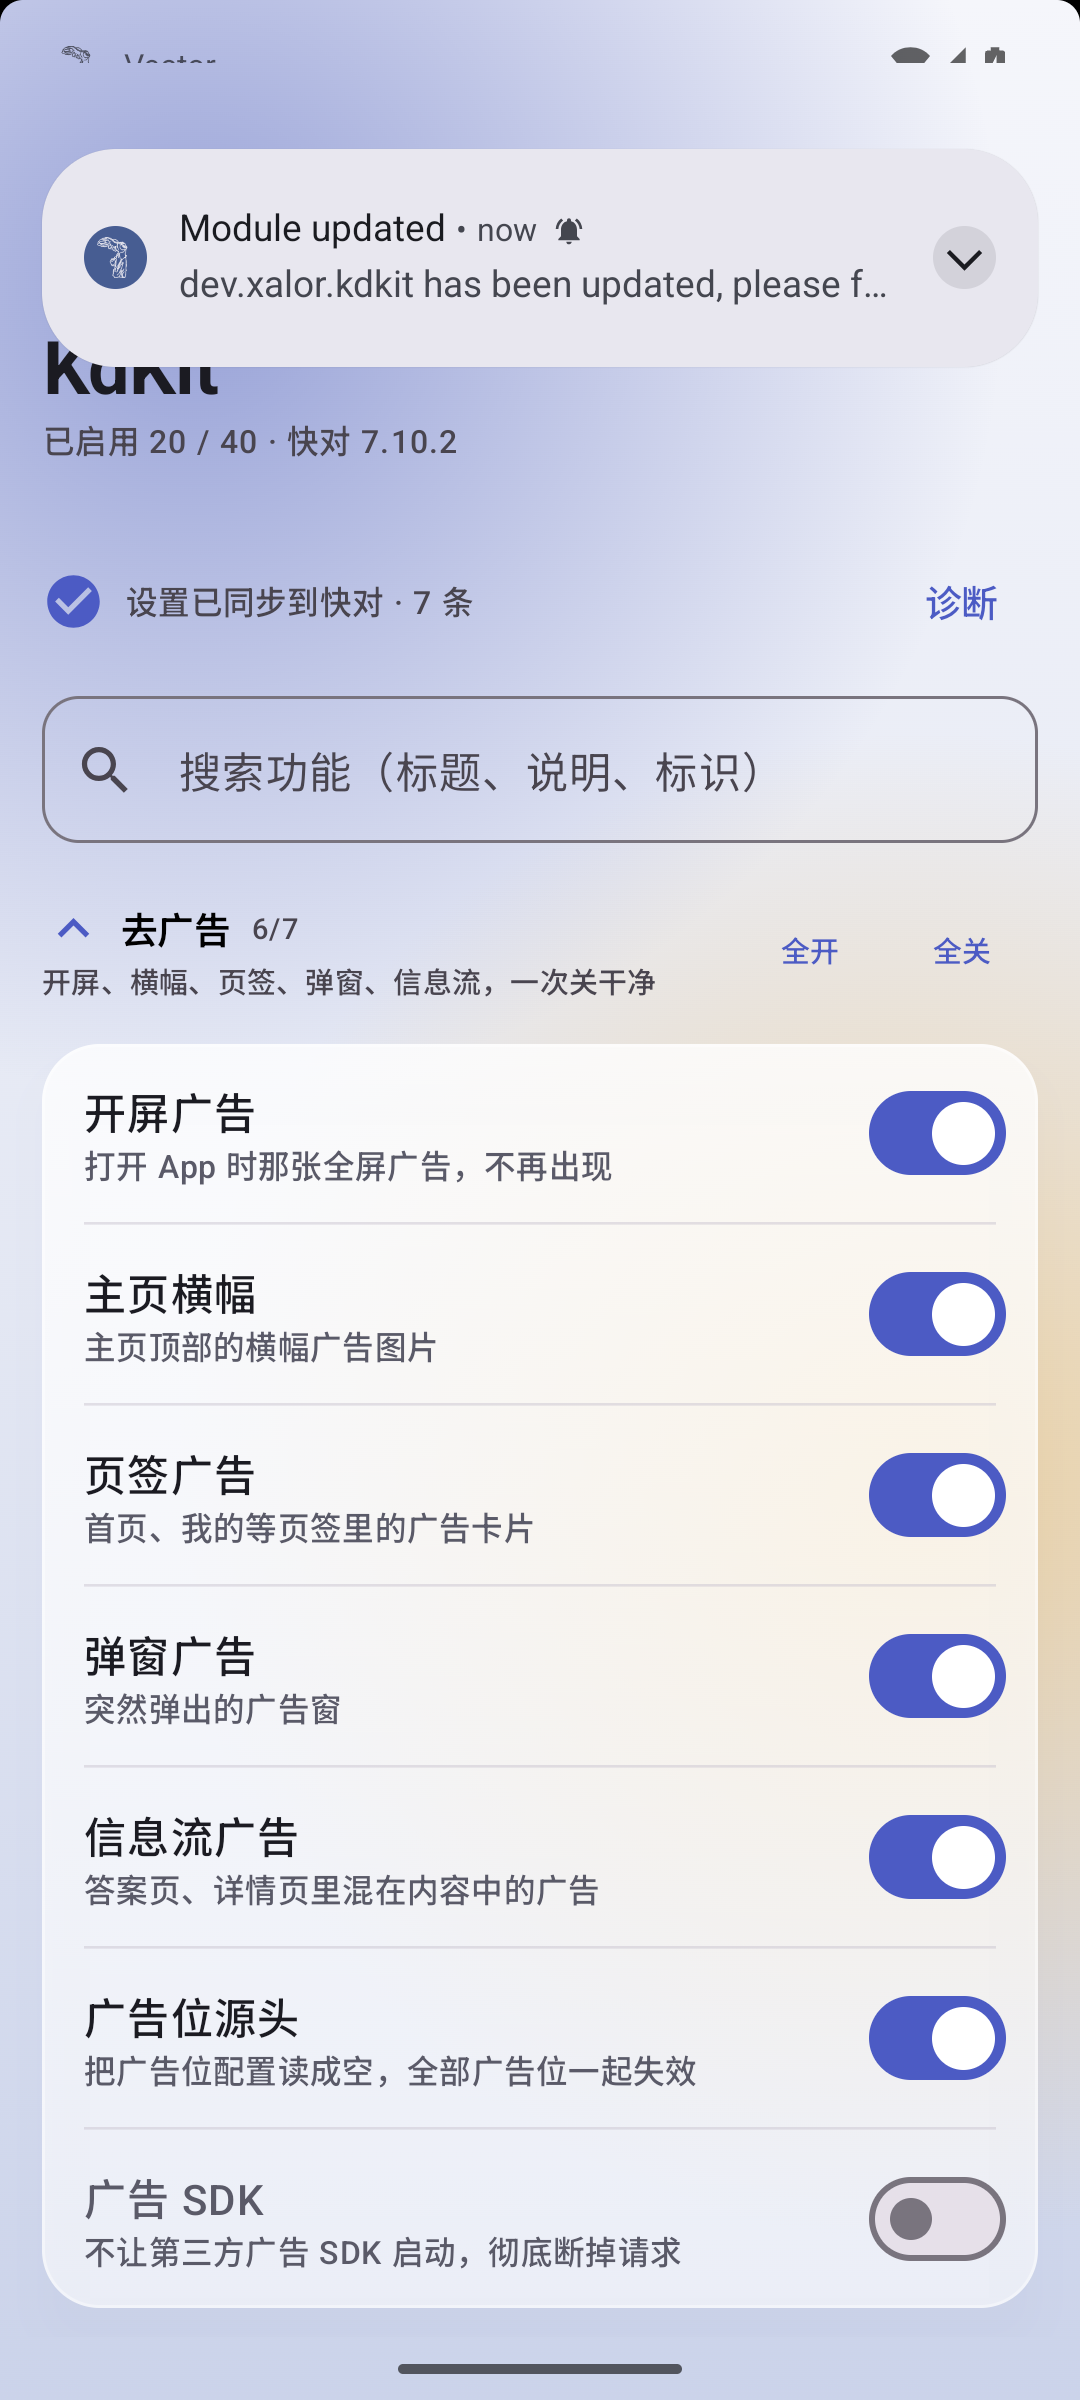
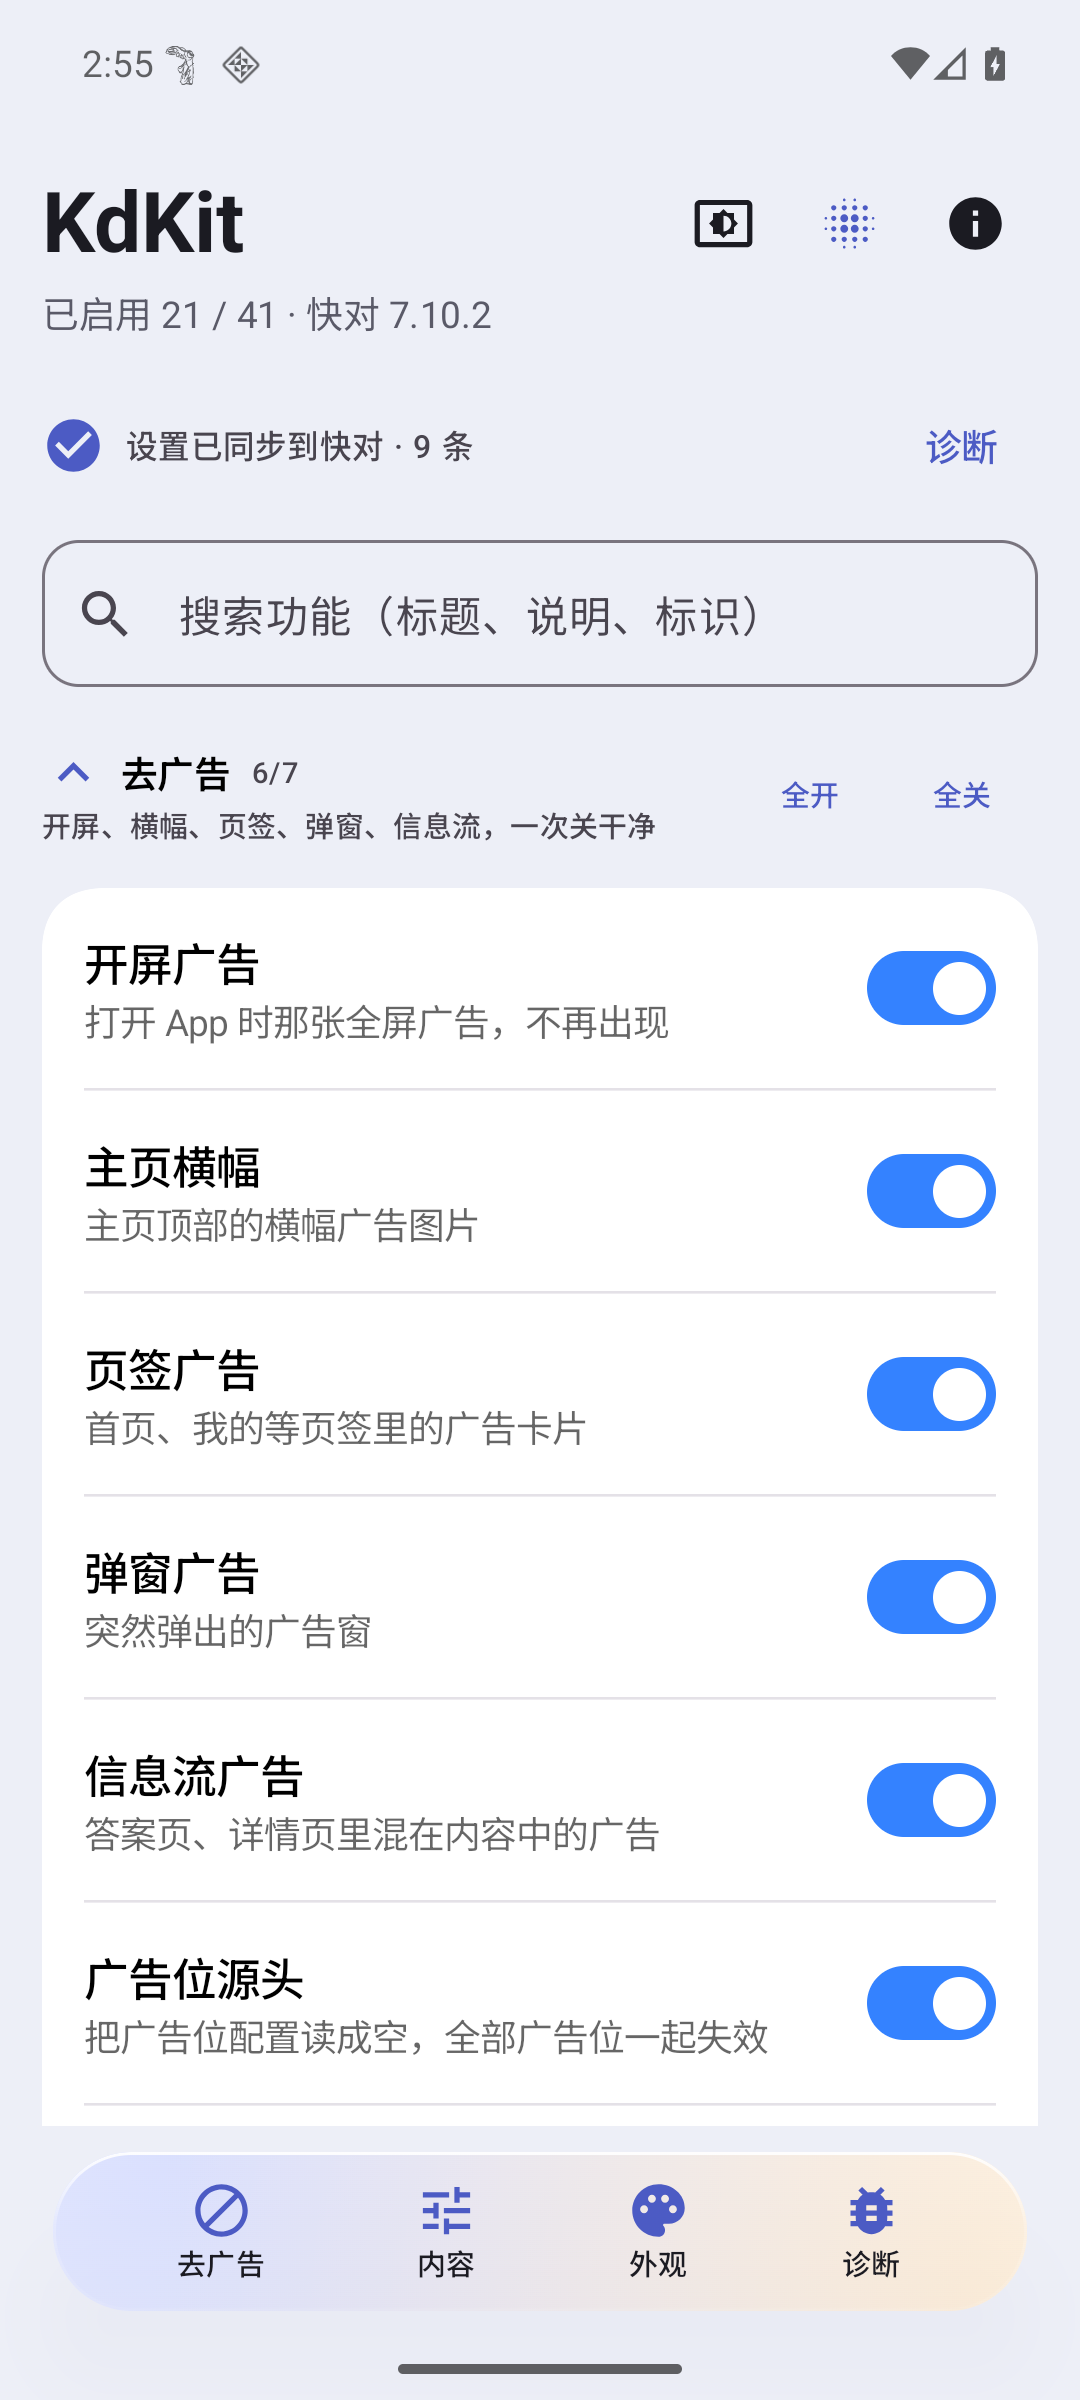
fix: 黑屏修复 + 真 miuix 骨架（Scaffold/Card/SwitchPreference）+ 深色验证
- 黑屏根因：透明 Surface + 自绘背景未绘制 + BlurEffect；改为不透明容器并移除 BlurEffect
- 页面骨架换 miuix Scaffold / Card / SwitchPreference / MiuixTheme（大标题移到列表首项）
- 深色三档实测通过（跟随系统 → 浅色；深色 → 深色）
- 快对 v8a 7.10.2 装机并跑通 smoke；APK 归档 work/versions

diff --git a/module/app/src/main/java/dev/xalor/kdkit/ui/MainActivity.kt b/module/app/src/main/java/dev/xalor/kdkit/ui/MainActivity.kt
@@ -61,7 +61,10 @@ import dev.xalor.kdkit.features.BaseFeature
 import dev.xalor.kdkit.features.FeatureRegistry
 import dev.xalor.kdkit.ui.theme.KdKitTheme
 import dev.xalor.kdkit.ui.theme.LocalGlass
+import top.yukonga.miuix.kmp.basic.Card
+import top.yukonga.miuix.kmp.basic.Scaffold
 import top.yukonga.miuix.kmp.basic.SmallTitle
+import top.yukonga.miuix.kmp.basic.TopAppBar
 import top.yukonga.miuix.kmp.preference.ArrowPreference
 import top.yukonga.miuix.kmp.preference.SwitchPreference
 import dev.xalor.kdkit.ui.theme.UiPrefs
@@ -107,7 +110,13 @@ class MainActivity : ComponentActivity() {
             val scale by animateFloatAsState(1f - 0.06f * backProgress, label = "back-scale")
 
             KdKitTheme(themeMode = mode, glass = glass) {
-                Surface(modifier = Modifier.fillMaxSize(), color = Color.Transparent) {
+                // 关键：先铺一层**不透明**底色，再叠玻璃背景。
+                // 以前这里是 Transparent Surface：一旦背景 Canvas 没画出来（新系统渲染差异），
+                // 整页就是纯黑 —— 这就是「打开 KdKit 直接黑屏」的机制。
+                Surface(
+                    modifier = Modifier.fillMaxSize(),
+                    color = if (LocalGlass.current.isDark) Color(0xFF0B0D14) else Color(0xFFEDEFF7),
+                ) {
                     GlassBackground {
                         Box(Modifier.graphicsLayer {
                             scaleX = scale; scaleY = scale
@@ -185,7 +194,8 @@ private fun SettingsScreen(
     }
 
     Scaffold(
-        containerColor = Color.Transparent,
+        // 不透明底：透明容器 + 绘制失败 = 整页黑屏（Android 17 上就是这样）。
+        containerColor = if (LocalGlass.current.isDark) Color(0xFF0B0D14) else Color(0xFFEDEFF7),
         bottomBar = {
             if (!searching) {
                 GlassBottomBar(glass) { g ->
@@ -194,50 +204,7 @@ private fun SettingsScreen(
             }
         },
         modifier = Modifier.nestedScroll(scroll.nestedScrollConnection),
-        topBar = {
-            LargeTopAppBar(
-                title = {
-                    Column {
-                        Text("KdKit", fontWeight = FontWeight.Bold)
-                        Text(
-                            "已启用 $enabledCount / ${all.size} · 快对 ${dev.xalor.kdkit.HostVersion.BASELINE_VERSION_NAME}",
-                            style = MaterialTheme.typography.labelMedium,
-                            color = MaterialTheme.colorScheme.onSurfaceVariant,
-                        )
-                    }
-                },
-                colors = TopAppBarDefaults.largeTopAppBarColors(
-                    containerColor = Color.Transparent,
-                    scrolledContainerColor = Color.Transparent,
-                ),
-                actions = {
-                    IconButton(onClick = onCycleTheme) {
-                        Icon(
-                            when (mode) {
-                                UiPrefs.THEME_DARK -> Icons.Default.DarkMode
-                                UiPrefs.THEME_LIGHT -> Icons.Default.LightMode
-                                else -> Icons.Default.SettingsBrightness
-                            },
-                            contentDescription = "主题：${UiPrefs.label(mode)}",
-                            tint = LocalGlass.current.onCard,
-                        )
-                    }
-                    IconButton(onClick = onToggleGlass) {
-                        Icon(
-                            Icons.Default.BlurOn,
-                            contentDescription = if (glass) "液态玻璃：开" else "液态玻璃：关",
-                            tint = if (glass) LocalGlass.current.accent else LocalGlass.current.onCardMuted,
-                        )
-                    }
-                    TextButton(onClick = { showAbout = true }) {
-                        Icon(Icons.Default.Info, contentDescription = null, modifier = Modifier.width(18.dp))
-                        Spacer(Modifier.width(4.dp))
-                        Text("关于")
-                    }
-                },
-                scrollBehavior = scroll,
-            )
-        },
+        topBar = {},
     ) { padding ->
         LazyColumn(
             state = listState,
@@ -245,6 +212,47 @@ private fun SettingsScreen(
             contentPadding = PaddingValues(start = 16.dp, end = 16.dp, top = 4.dp, bottom = 104.dp),
             verticalArrangement = Arrangement.spacedBy(12.dp),
         ) {
+            item(key = "title") {
+                Column(Modifier.fillMaxWidth().padding(top = 8.dp, bottom = 4.dp)) {
+                    Row(verticalAlignment = Alignment.CenterVertically) {
+                        Text(
+                            "KdKit",
+                            style = MaterialTheme.typography.headlineLarge,
+                            fontWeight = FontWeight.Bold,
+                            color = LocalGlass.current.onCard,
+                        )
+                        Spacer(Modifier.weight(1f))
+                        IconButton(onClick = onCycleTheme) {
+                            Icon(
+                                when (mode) {
+                                    UiPrefs.THEME_DARK -> Icons.Default.DarkMode
+                                    UiPrefs.THEME_LIGHT -> Icons.Default.LightMode
+                                    else -> Icons.Default.SettingsBrightness
+                                },
+                                contentDescription = "主题：${UiPrefs.label(mode)}",
+                                tint = LocalGlass.current.onCard,
+                            )
+                        }
+                        IconButton(onClick = onToggleGlass) {
+                            Icon(
+                                Icons.Default.BlurOn,
+                                contentDescription = if (glass) "液态玻璃：开" else "液态玻璃：关",
+                                tint = if (glass) LocalGlass.current.accent else LocalGlass.current.onCardMuted,
+                            )
+                        }
+                        IconButton(onClick = { showAbout = true }) {
+                            Icon(Icons.Default.Info, contentDescription = "关于", tint = LocalGlass.current.onCard)
+                        }
+                    }
+                    Text(
+                        "已启用 $enabledCount / ${all.size} · 快对 " +
+                            dev.xalor.kdkit.HostVersion.BASELINE_VERSION_NAME,
+                        style = MaterialTheme.typography.bodyMedium,
+                        color = LocalGlass.current.onCardMuted,
+                    )
+                }
+            }
+
             item { StatusLine(health) { showDiag = true } }
 
             item {
@@ -493,10 +501,9 @@ private fun FeatureCard(
     glass: Boolean,
     onChange: () -> Unit,
 ) {
-    GlassCard(
+    Card(
         modifier = Modifier.fillMaxWidth(),
-        shape = RoundedCornerShape(22.dp),
-        glassOff = !glass,
+        cornerRadius = 22.dp,
     ) {
         Column {
             features.forEachIndexed { i, f ->

diff --git a/module/app/src/main/java/dev/xalor/kdkit/ui/Glass.kt b/module/app/src/main/java/dev/xalor/kdkit/ui/Glass.kt
@@ -1,6 +1,5 @@
 package dev.xalor.kdkit.ui
 
-import android.os.Build
 import androidx.compose.foundation.Canvas
 import androidx.compose.foundation.background
 import androidx.compose.foundation.border
@@ -15,12 +14,9 @@ import androidx.compose.ui.Modifier
 import androidx.compose.ui.draw.clip
 import androidx.compose.ui.draw.shadow
 import androidx.compose.ui.geometry.Offset
-import androidx.compose.ui.graphics.BlurEffect
 import androidx.compose.ui.graphics.Brush
 import androidx.compose.ui.graphics.Color
 import androidx.compose.ui.graphics.Shape
-import androidx.compose.ui.graphics.TileMode
-import androidx.compose.ui.graphics.graphicsLayer
 import androidx.compose.ui.unit.Dp
 import androidx.compose.ui.unit.dp
 import dev.xalor.kdkit.ui.theme.LocalGlass
@@ -85,7 +81,8 @@ fun GlassBackground(
  *
  * 结构（自下而上）：
  *  1. 背景层：渐变填充 + 两团彩色光斑（这是"液态"的颜色来源）；
- *  2. 模糊层：对 1 施加 [BlurEffect]（API 31+；低版本自动退化成不糊，视觉仍成立）；
+ *  2. （原先这里有一层 [BlurEffect] 模糊，2026-11-14 移除：在 Android 17 上它会让整页黑屏——
+ *     渲染后端拿不到 RenderEffect 时连底色都不画。现在改用「晕染渐变本身够柔和」的等价做法。）
  *  3. 高光边：上亮下暗的 1dp 渐变描边，模拟玻璃边缘；
  *  4. 内容层。
  *
@@ -135,36 +132,6 @@ fun GlassCard(
                     radius = size.maxDimension * 0.85f,
                     center = Offset(size.width * 0.95f, size.height),
                 )
-            }
-            // 2) 模糊层（只糊上面那层绘制，不糊内容）
-            Box(
-                Modifier.matchParentSize().graphicsLayer {
-                    if (Build.VERSION.SDK_INT >= Build.VERSION_CODES.S) {
-                        renderEffect = BlurEffect(blurPx, blurPx, TileMode.Clamp)
-                    }
-                },
-            ) {
-                Canvas(Modifier.matchParentSize()) {
-                    drawRect(Brush.verticalGradient(listOf(g.cardFillTop, g.cardFillBottom)))
-                    drawCircle(
-                        brush = Brush.radialGradient(
-                            colors = listOf(g.cardTint1, Color.Transparent),
-                            center = Offset(size.width * 0.12f, 0f),
-                            radius = size.maxDimension * 0.9f,
-                        ),
-                        radius = size.maxDimension * 0.9f,
-                        center = Offset(size.width * 0.12f, 0f),
-                    )
-                    drawCircle(
-                        brush = Brush.radialGradient(
-                            colors = listOf(g.cardTint2, Color.Transparent),
-                            center = Offset(size.width * 0.95f, size.height),
-                            radius = size.maxDimension * 0.85f,
-                        ),
-                        radius = size.maxDimension * 0.85f,
-                        center = Offset(size.width * 0.95f, size.height),
-                    )
-                }
             }
             // 3) 高光边
             Box(
